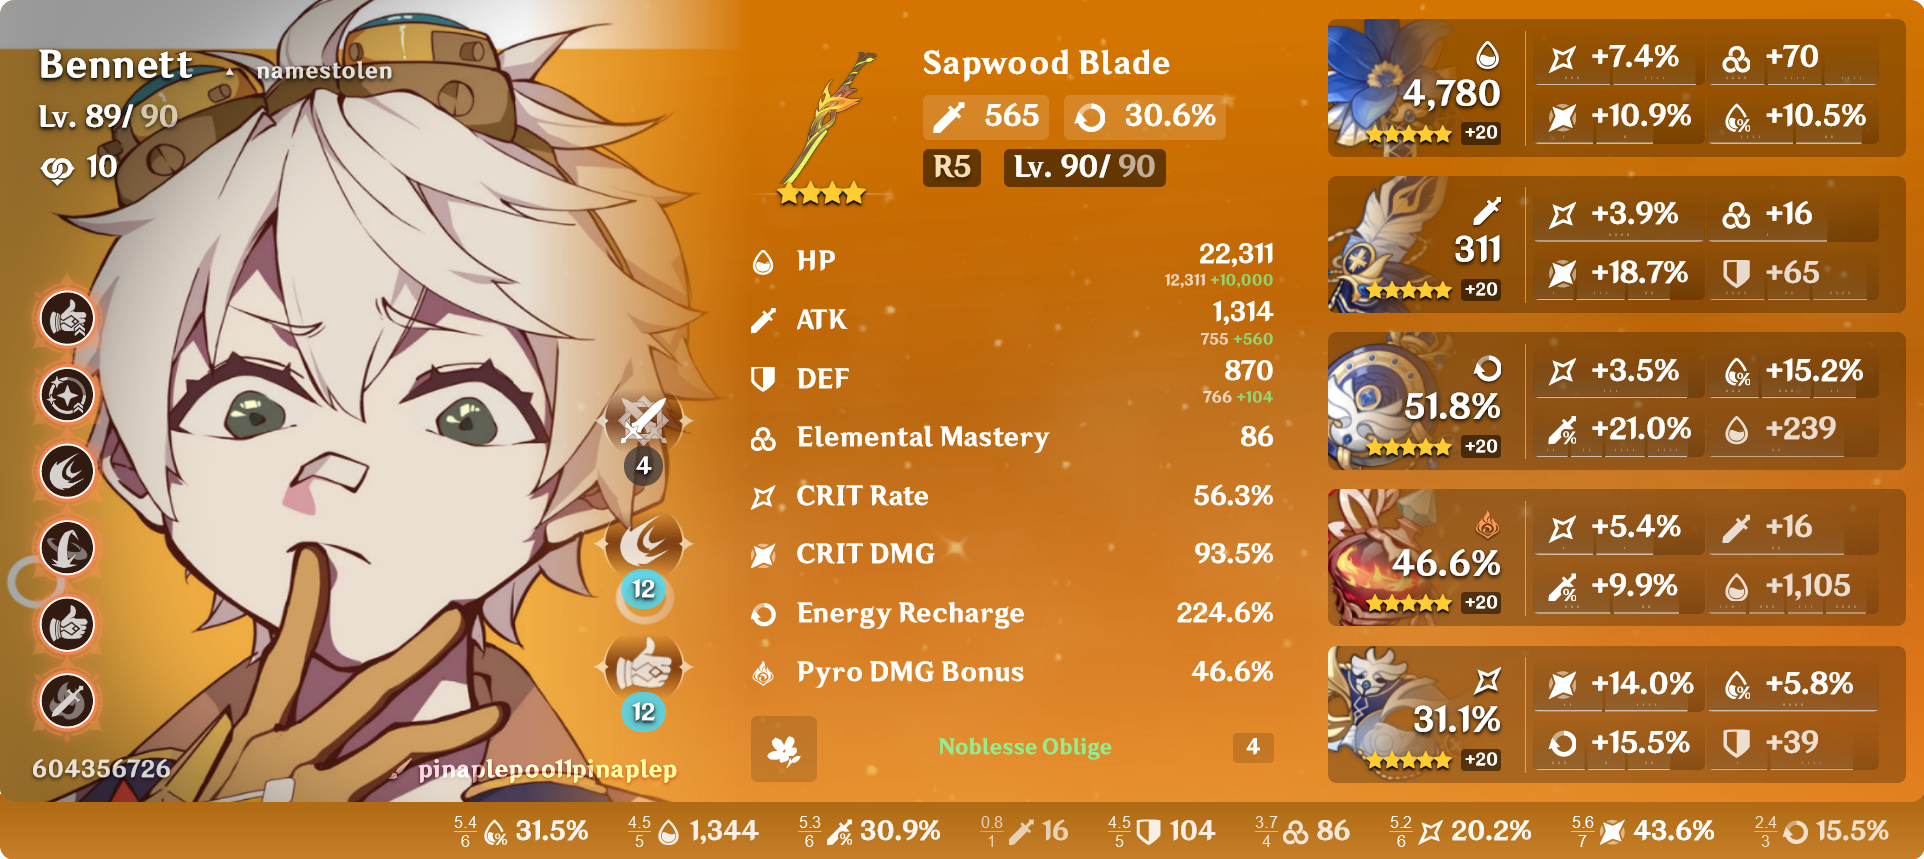
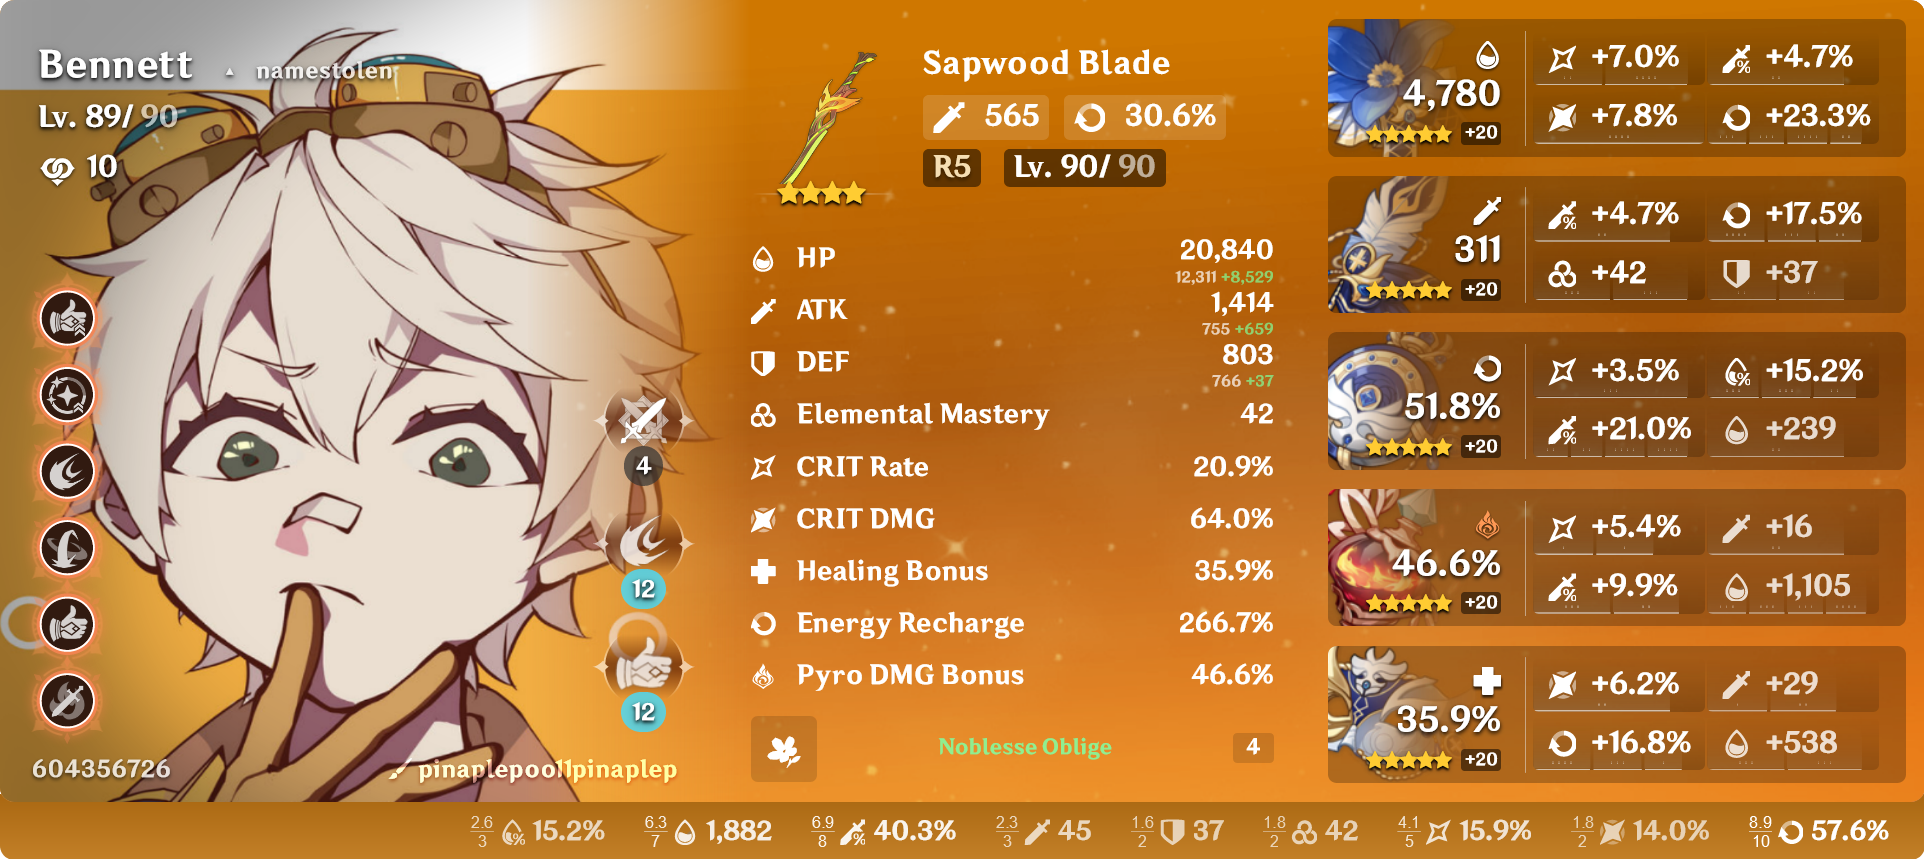
Spiral Abyss Updates

diff --git a/spiral-abyss/team_images/11-02-23/index.html b/spiral-abyss/team_images/11-02-23/index.html
@@ -229,10 +229,10 @@ img {
 	
 	</head>
 <body>
-	<iframe class="video" width="100%" src="https://video.hardlimit.com/videos/embed/034a5d5e-38dc-488b-8f01-6d6787d3a061" frameborder="0" allowfullscreen="" sandbox="allow-same-origin allow-scripts allow-popups"></iframe><h4 align="center">Floor 12</h4>
+	<iframe class="video" width="100%" src="https://video.hardlimit.com/videos/embed/ecdad9f5-96b6-4cb7-8a17-b2c6effad986" frameborder="0" allowfullscreen="" sandbox="allow-same-origin allow-scripts allow-popups"></iframe><h4 align="center">Floor 12</h4>
 	
 <p align="center"><a href="https://video.hardlimit.com/c/namestolen/videos">View Archives</a> | <a href="https://elekk.xyz/@campbell">Follow me</a>
-<div class="fade in" align="center" style="font-family: 'VT323', monospace;font-size: 30px;color: rgb(64,64,64);">SPIRAL ABYSS VER. 4.1 CYCLE 3<p style="font-size:14px;color: rgb(64,64,64);">
+<div class="fade in" align="center" style="font-family: 'VT323', monospace;font-size: 30px;color: rgb(64,64,64);">SPIRAL ABYSS VER. 4.1 CYCLE 2<p style="font-size:14px;color: rgb(64,64,64);">
 <div class="column">
 	<h3 align="center">Team 1</h3>
 	<a class="lightbox" href="#photo-5"><img src="team_images/photo-1.png" width="100%"></a>
@@ -247,7 +247,7 @@ img {
 	<a class="lightbox" href="#photo-4"><img src="team_images/photo-8.png" width="100%"></a></div>
 </div>
 <img width="100%" src="team_images/photo-9.png">
-<p><br><br>Comments: <br><br>If it ain't broke, don't fix it! I just ran the same teams here with some (very slight) artifact changes to Bennett and Kazuha, mostly in an effort to see if I could get the cryo buff from Wanderer's acension passive a bit more easily. I don't really know if I was successful, partially because it's hard to see in the heat of the moment and also because this cycle's blessing grants a ton of free crit rate already. Also, for some reason, my recording froze twice in the middle of 12-2-2. Don't know what that's about, but it's also probably the easiest and most straightforward chamber of the lot.<br><br><br></p>
+<p><br><br>Comments: <br><br>I used the flying carries this cycle! I hated fighting the seahorse so I figured if I could get enough elemental application to break the shield it would be easier. I was actually kind of surprised that the mono-pyro Lyney team had a hard time with that last cycle but Wanderer took care of it no problem. My far-from-ideally build Neuvillette continues to be pretty strong as well and the only change I made to his team was to forego defense and replace Beidou with Yae, which worked out just fine, though I did have to retry a couple of times because of Yae's squishiness.<br><br><br></p>
 <div class="lightbox-target" id="photo"><img src="team_images/photo-5.png" width="75%"><a class="lightbox-close" href></a></div>
 <div class="lightbox-target" id="photo-2"><img src="team_images/photo-6.png" width="75%"><a class="lightbox-close" href></a></div>
 <div class="lightbox-target" id="photo-3"><img src="team_images/photo-7.png" width="75%"><a class="lightbox-close" href></a></div>
